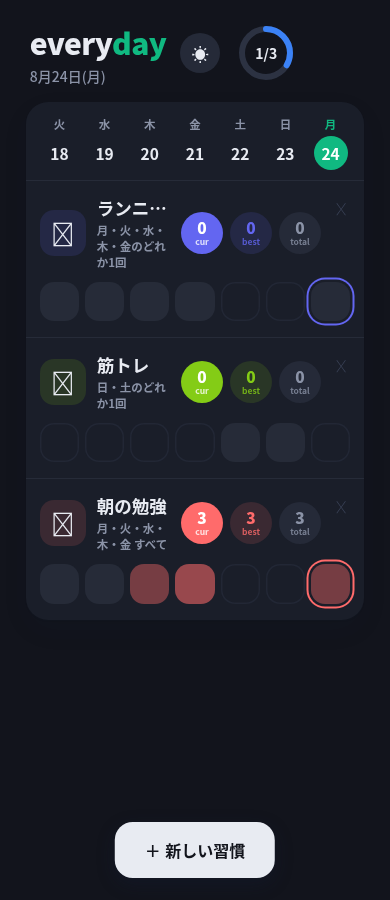
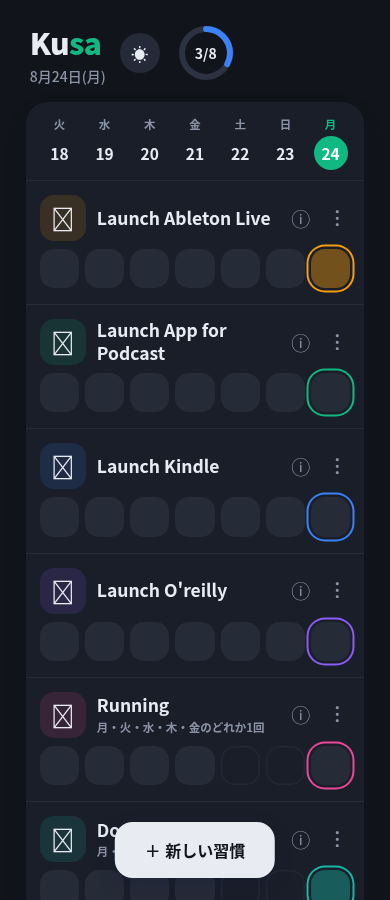
Rebrand to Kusa: drop everyday.app references, refresh screenshots, rename skill to kusa-app, document config

diff --git a/README.md b/README.md
@@ -1,12 +1,12 @@
-# everyday — self-hosted habit tracker
+# Kusa — self-hosted habit tracker
 
-A minimal, everyday.app-inspired habit tracker that runs as a **single Node.js file** (zero npm dependencies, uses the built-in `node:sqlite`).
+A minimal habit tracker that runs as a **single Node.js file** (zero npm dependencies, uses the built-in `node:sqlite`).
 
 ![screenshot](docs/screenshot.png)
 
 ## Features
 
-- 📱 **Mobile-first UI** — everyday.app-style card layout, big tappable cells
+- 📱 **Mobile-first UI** — card layout with big tappable cells
 - 🎨 **Streak heatmap** — cells darken as consecutive days stack up (1 day = 40% → 5+ days = full color)
 - ✂ **Skip** — long-press (mobile) / right-click (desktop) to skip a day with a diagonal slash; the streak bridges over skipped days
 - 📆 **Any-of-weekday habits** — e.g. "run on any weekday", "gym on either weekend day". Non-target days are shown faded and rejected by the API. The streak counts *periods* (one per maximal run of allowed weekdays), not calendar days.
@@ -32,6 +32,16 @@ Open `http://127.0.0.1:8090/?key=<your-token>`.
 
 > The key is stored in `localStorage` after the first visit, so the URL with `?key=` is only needed once. PWA assets (`sw.js`, `manifest.webmanifest`, icons) are served without auth; everything else requires the key (query param or `Authorization: Bearer`).
 
+## Configuration
+
+All settings live in `config.json` (copy from `config.example.json`):
+
+| Key | Default | Description |
+| --- | --- | --- |
+| `port` | `8090` | TCP port to listen on |
+| `token` | *(no default)* | Access key required by every authenticated request — set a long random string. Passed as `?key=…` or `Authorization: Bearer` |
+| `lang` | `"ja"` | UI language: `"ja"` (Japanese) or `"en"` (English). Also sets the `<html lang>` and date formatting |
+
 ## API
 
 - `GET /api/state` — full state: habits with days, skips, streak/longest/total
@@ -50,7 +60,7 @@ Open `http://127.0.0.1:8090/?key=<your-token>`.
 
 ## Agent skill
 
-This repo ships an agent skill (`skill/habit-tracker/`) so an OpenClaw/Codex-style agent can operate the tracker for you (check in, report streaks, …). See `skill/habit-tracker/SKILL.md`.
+This repo ships an agent skill (`skill/kusa-app/`) so an OpenClaw/Codex-style agent can operate the tracker for you (check in, report streaks, …). See `skill/habit-tracker/SKILL.md`.
 
 ## Chrome extension
 

diff --git a/skill/kusa-app/SKILL.md b/skill/kusa-app/SKILL.md
@@ -1,6 +1,6 @@
 ---
-name: habit-tracker
-description: "Operate the self-hosted habit-tracker app (everyday-style): check in habits, report streaks, manage habits via its HTTP API."
+name: kusa-app
+description: "Operate the self-hosted habit-tracker app (Kusa): check in habits, report streaks, manage habits via its HTTP API."
 ---
 
 # Habit Tracker
